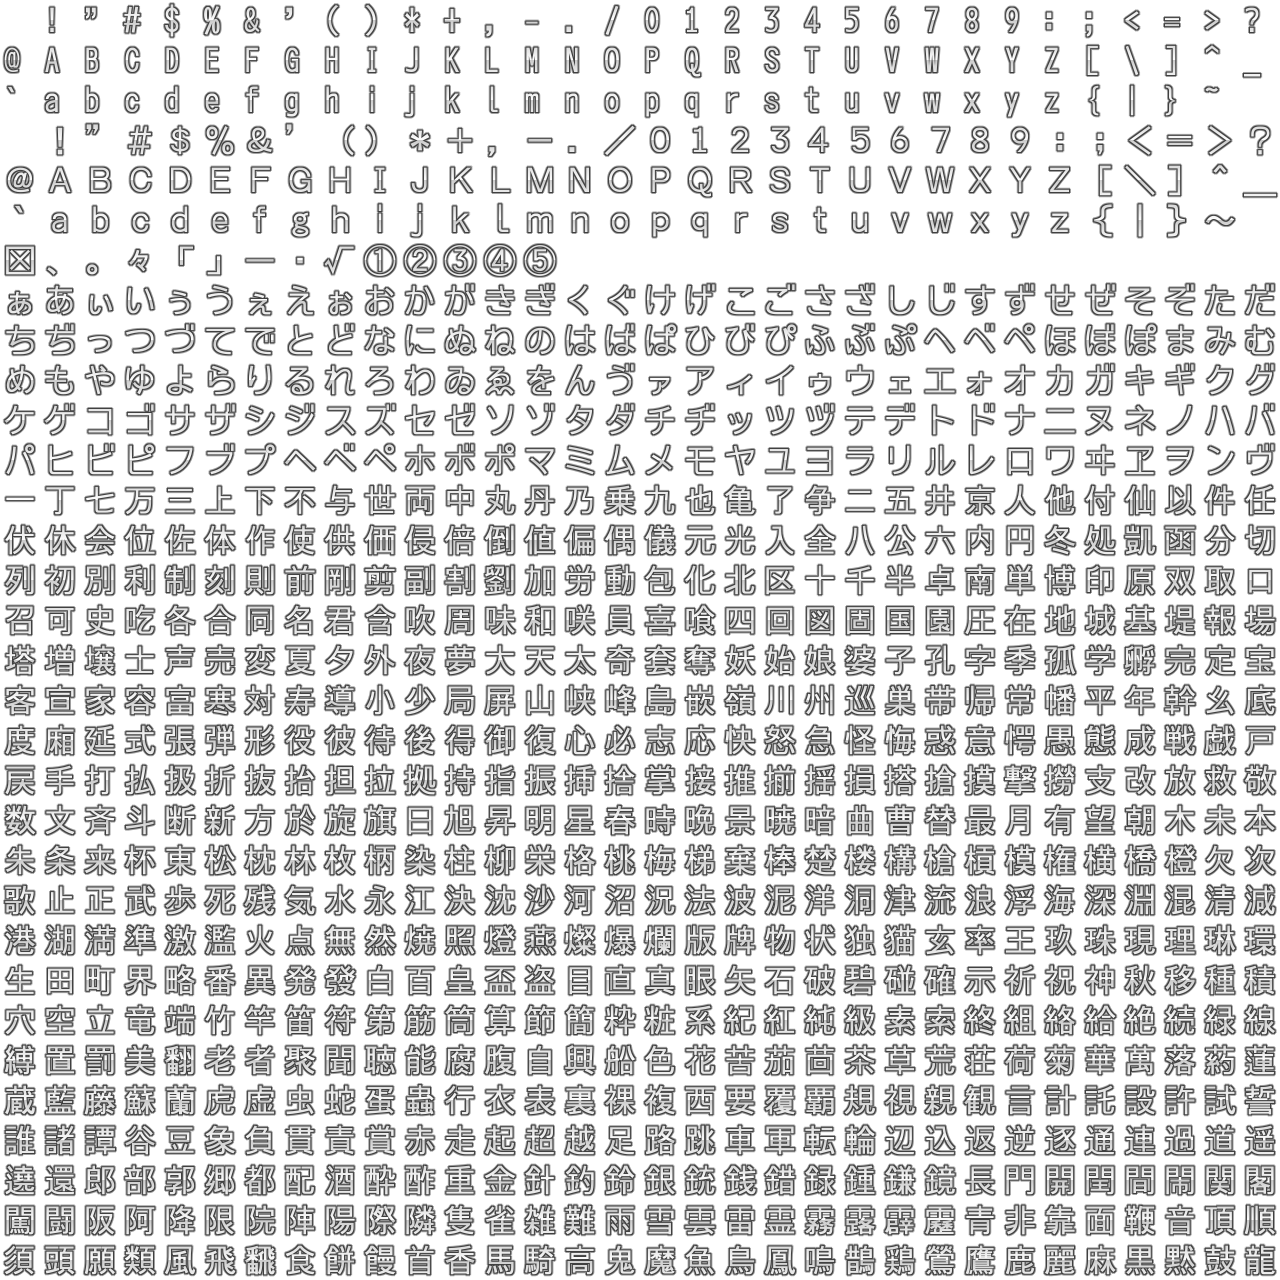
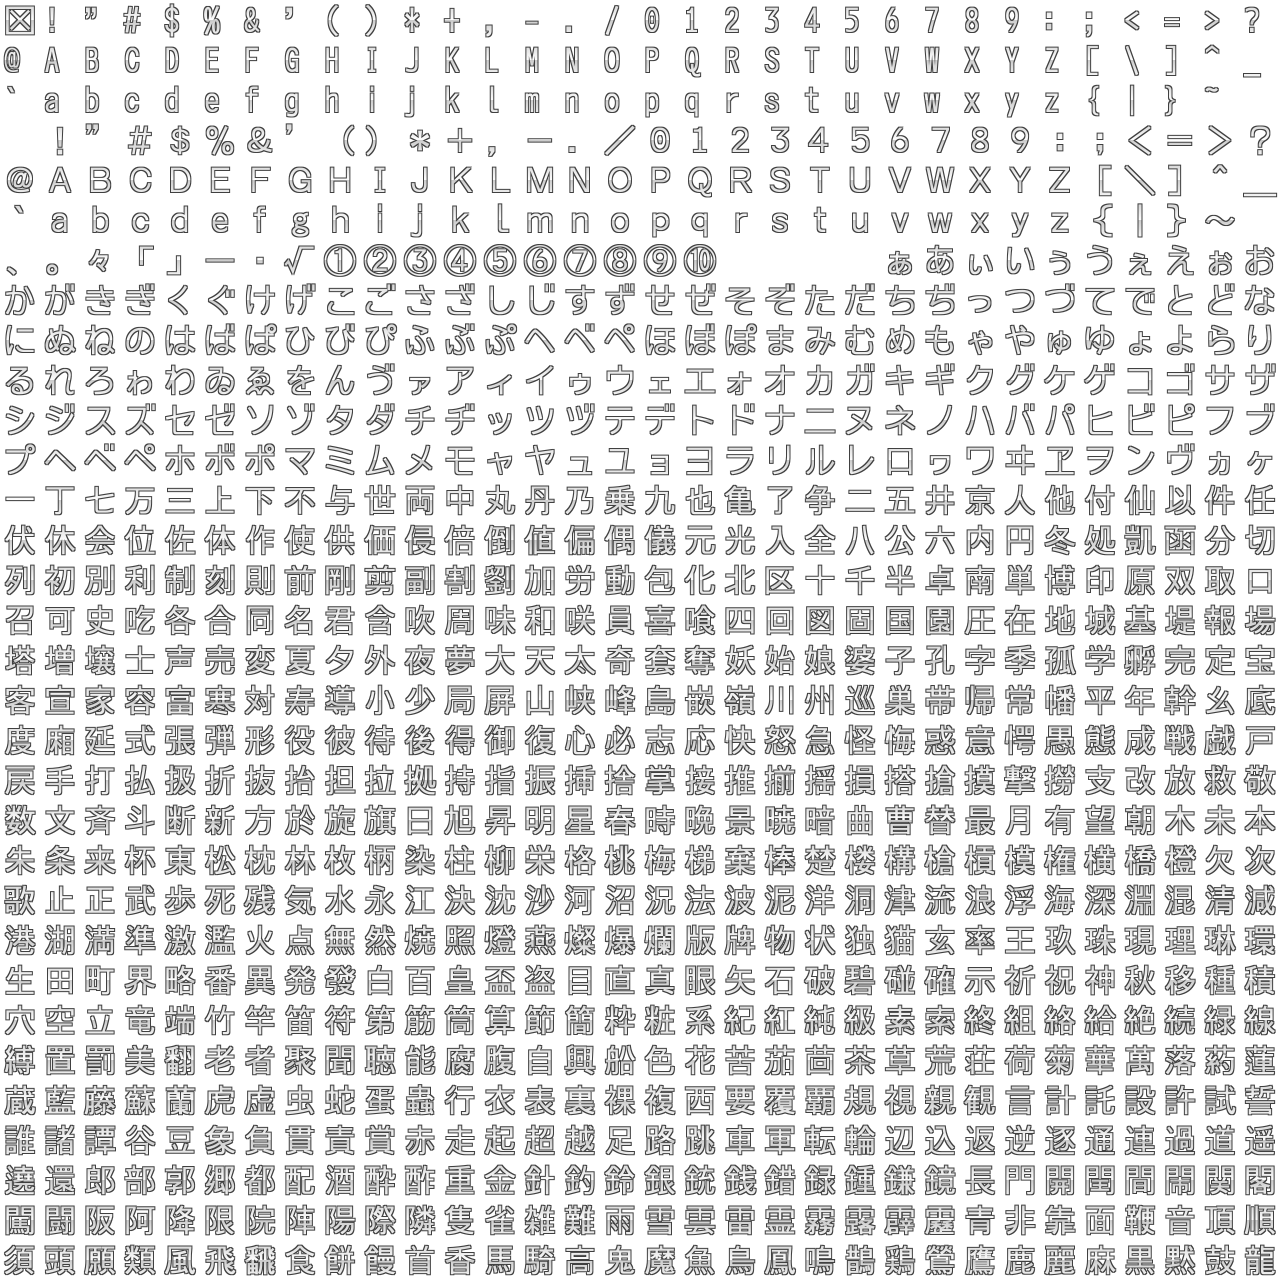
抜けていた仮名を追加

diff --git a/graphic/font.cpp b/graphic/font.cpp
@@ -11,7 +11,7 @@ unsigned short FontMap::map(wchar_t c) {
 }
 
 FontMap::FontMap() {
-	m.insert(fMapDat(L' ', 0));
+	m.insert(fMapDat(L' ', 96));
 	m.insert(fMapDat(L'!', 1));
 	m.insert(fMapDat(L'"', 2));
 	m.insert(fMapDat(L'#', 3));
@@ -201,179 +201,194 @@ FontMap::FontMap() {
 	m.insert(fMapDat(L'\uff5c', 188));
 	m.insert(fMapDat(L'\uff5d', 189));
 	m.insert(fMapDat(L'\uff5e', 190));
-	m.insert(fMapDat(L'\u3001', 193));
-	m.insert(fMapDat(L'\u3002', 194));
-	m.insert(fMapDat(L'\u3005', 195));
-	m.insert(fMapDat(L'\u300c', 196));
-	m.insert(fMapDat(L'\u300d', 197));
-	m.insert(fMapDat(L'\u30fc', 198));
-	m.insert(fMapDat(L'\u30fb', 199));
-	m.insert(fMapDat(L'\u221a', 200));
-	m.insert(fMapDat(L'\u2460', 201));
-	m.insert(fMapDat(L'\u2461', 202));
-	m.insert(fMapDat(L'\u2462', 203));
-	m.insert(fMapDat(L'\u2463', 204));
-	m.insert(fMapDat(L'\u2464', 205));
-	m.insert(fMapDat(L'\u3041', 224));
-	m.insert(fMapDat(L'\u3042', 225));
-	m.insert(fMapDat(L'\u3043', 226));
-	m.insert(fMapDat(L'\u3044', 227));
-	m.insert(fMapDat(L'\u3045', 228));
-	m.insert(fMapDat(L'\u3046', 229));
-	m.insert(fMapDat(L'\u3047', 230));
-	m.insert(fMapDat(L'\u3048', 231));
-	m.insert(fMapDat(L'\u3049', 232));
-	m.insert(fMapDat(L'\u304a', 233));
-	m.insert(fMapDat(L'\u304b', 234));
-	m.insert(fMapDat(L'\u304c', 235));
-	m.insert(fMapDat(L'\u304d', 236));
-	m.insert(fMapDat(L'\u304e', 237));
-	m.insert(fMapDat(L'\u304f', 238));
-	m.insert(fMapDat(L'\u3050', 239));
-	m.insert(fMapDat(L'\u3051', 240));
-	m.insert(fMapDat(L'\u3052', 241));
-	m.insert(fMapDat(L'\u3053', 242));
-	m.insert(fMapDat(L'\u3054', 243));
-	m.insert(fMapDat(L'\u3055', 244));
-	m.insert(fMapDat(L'\u3056', 245));
-	m.insert(fMapDat(L'\u3057', 246));
-	m.insert(fMapDat(L'\u3058', 247));
-	m.insert(fMapDat(L'\u3059', 248));
-	m.insert(fMapDat(L'\u305a', 249));
-	m.insert(fMapDat(L'\u305b', 250));
-	m.insert(fMapDat(L'\u305c', 251));
-	m.insert(fMapDat(L'\u305d', 252));
-	m.insert(fMapDat(L'\u305e', 253));
-	m.insert(fMapDat(L'\u305f', 254));
-	m.insert(fMapDat(L'\u3060', 255));
-	m.insert(fMapDat(L'\u3061', 256));
-	m.insert(fMapDat(L'\u3062', 257));
-	m.insert(fMapDat(L'\u3063', 258));
-	m.insert(fMapDat(L'\u3064', 259));
-	m.insert(fMapDat(L'\u3065', 260));
-	m.insert(fMapDat(L'\u3066', 261));
-	m.insert(fMapDat(L'\u3067', 262));
-	m.insert(fMapDat(L'\u3068', 263));
-	m.insert(fMapDat(L'\u3069', 264));
-	m.insert(fMapDat(L'\u306a', 265));
-	m.insert(fMapDat(L'\u306b', 266));
-	m.insert(fMapDat(L'\u306c', 267));
-	m.insert(fMapDat(L'\u306d', 268));
-	m.insert(fMapDat(L'\u306e', 269));
-	m.insert(fMapDat(L'\u306f', 270));
-	m.insert(fMapDat(L'\u3070', 271));
-	m.insert(fMapDat(L'\u3071', 272));
-	m.insert(fMapDat(L'\u3072', 273));
-	m.insert(fMapDat(L'\u3073', 274));
-	m.insert(fMapDat(L'\u3074', 275));
-	m.insert(fMapDat(L'\u3075', 276));
-	m.insert(fMapDat(L'\u3076', 277));
-	m.insert(fMapDat(L'\u3077', 278));
-	m.insert(fMapDat(L'\u3078', 279));
-	m.insert(fMapDat(L'\u3079', 280));
-	m.insert(fMapDat(L'\u307a', 281));
-	m.insert(fMapDat(L'\u307b', 282));
-	m.insert(fMapDat(L'\u307c', 283));
-	m.insert(fMapDat(L'\u307d', 284));
-	m.insert(fMapDat(L'\u307e', 285));
-	m.insert(fMapDat(L'\u307f', 286));
-	m.insert(fMapDat(L'\u3080', 287));
-	m.insert(fMapDat(L'\u3081', 288));
-	m.insert(fMapDat(L'\u3082', 289));
-	m.insert(fMapDat(L'\u3084', 290));
-	m.insert(fMapDat(L'\u3086', 291));
-	m.insert(fMapDat(L'\u3088', 292));
-	m.insert(fMapDat(L'\u3089', 293));
-	m.insert(fMapDat(L'\u308a', 294));
-	m.insert(fMapDat(L'\u308b', 295));
-	m.insert(fMapDat(L'\u308c', 296));
-	m.insert(fMapDat(L'\u308d', 297));
-	m.insert(fMapDat(L'\u308f', 298));
-	m.insert(fMapDat(L'\u3090', 299));
-	m.insert(fMapDat(L'\u3091', 300));
-	m.insert(fMapDat(L'\u3092', 301));
-	m.insert(fMapDat(L'\u3093', 302));
-	m.insert(fMapDat(L'\u3094', 303));
-	m.insert(fMapDat(L'\u30a1', 304));
-	m.insert(fMapDat(L'\u30a2', 305));
-	m.insert(fMapDat(L'\u30a3', 306));
-	m.insert(fMapDat(L'\u30a4', 307));
-	m.insert(fMapDat(L'\u30a5', 308));
-	m.insert(fMapDat(L'\u30a6', 309));
-	m.insert(fMapDat(L'\u30a7', 310));
-	m.insert(fMapDat(L'\u30a8', 311));
-	m.insert(fMapDat(L'\u30a9', 312));
-	m.insert(fMapDat(L'\u30aa', 313));
-	m.insert(fMapDat(L'\u30ab', 314));
-	m.insert(fMapDat(L'\u30ac', 315));
-	m.insert(fMapDat(L'\u30ad', 316));
-	m.insert(fMapDat(L'\u30ae', 317));
-	m.insert(fMapDat(L'\u30af', 318));
-	m.insert(fMapDat(L'\u30b0', 319));
-	m.insert(fMapDat(L'\u30b1', 320));
-	m.insert(fMapDat(L'\u30b2', 321));
-	m.insert(fMapDat(L'\u30b3', 322));
-	m.insert(fMapDat(L'\u30b4', 323));
-	m.insert(fMapDat(L'\u30b5', 324));
-	m.insert(fMapDat(L'\u30b6', 325));
-	m.insert(fMapDat(L'\u30b7', 326));
-	m.insert(fMapDat(L'\u30b8', 327));
-	m.insert(fMapDat(L'\u30b9', 328));
-	m.insert(fMapDat(L'\u30ba', 329));
-	m.insert(fMapDat(L'\u30bb', 330));
-	m.insert(fMapDat(L'\u30bc', 331));
-	m.insert(fMapDat(L'\u30bd', 332));
-	m.insert(fMapDat(L'\u30be', 333));
-	m.insert(fMapDat(L'\u30bf', 334));
-	m.insert(fMapDat(L'\u30c0', 335));
-	m.insert(fMapDat(L'\u30c1', 336));
-	m.insert(fMapDat(L'\u30c2', 337));
-	m.insert(fMapDat(L'\u30c3', 338));
-	m.insert(fMapDat(L'\u30c4', 339));
-	m.insert(fMapDat(L'\u30c5', 340));
-	m.insert(fMapDat(L'\u30c6', 341));
-	m.insert(fMapDat(L'\u30c7', 342));
-	m.insert(fMapDat(L'\u30c8', 343));
-	m.insert(fMapDat(L'\u30c9', 344));
-	m.insert(fMapDat(L'\u30ca', 345));
-	m.insert(fMapDat(L'\u30cb', 346));
-	m.insert(fMapDat(L'\u30cc', 347));
-	m.insert(fMapDat(L'\u30cd', 348));
-	m.insert(fMapDat(L'\u30ce', 349));
-	m.insert(fMapDat(L'\u30cf', 350));
-	m.insert(fMapDat(L'\u30d0', 351));
-	m.insert(fMapDat(L'\u30d1', 352));
-	m.insert(fMapDat(L'\u30d2', 353));
-	m.insert(fMapDat(L'\u30d3', 354));
-	m.insert(fMapDat(L'\u30d4', 355));
-	m.insert(fMapDat(L'\u30d5', 356));
-	m.insert(fMapDat(L'\u30d6', 357));
-	m.insert(fMapDat(L'\u30d7', 358));
-	m.insert(fMapDat(L'\u30d8', 359));
-	m.insert(fMapDat(L'\u30d9', 360));
-	m.insert(fMapDat(L'\u30da', 361));
-	m.insert(fMapDat(L'\u30db', 362));
-	m.insert(fMapDat(L'\u30dc', 363));
-	m.insert(fMapDat(L'\u30dd', 364));
-	m.insert(fMapDat(L'\u30de', 365));
-	m.insert(fMapDat(L'\u30df', 366));
-	m.insert(fMapDat(L'\u30e0', 367));
-	m.insert(fMapDat(L'\u30e1', 368));
-	m.insert(fMapDat(L'\u30e2', 369));
-	m.insert(fMapDat(L'\u30e4', 370));
-	m.insert(fMapDat(L'\u30e6', 371));
-	m.insert(fMapDat(L'\u30e8', 372));
-	m.insert(fMapDat(L'\u30e9', 373));
-	m.insert(fMapDat(L'\u30ea', 374));
-	m.insert(fMapDat(L'\u30eb', 375));
-	m.insert(fMapDat(L'\u30ec', 376));
-	m.insert(fMapDat(L'\u30ed', 377));
-	m.insert(fMapDat(L'\u30ef', 378));
-	m.insert(fMapDat(L'\u30f0', 379));
-	m.insert(fMapDat(L'\u30f1', 380));
-	m.insert(fMapDat(L'\u30f2', 381));
-	m.insert(fMapDat(L'\u30f3', 382));
-	m.insert(fMapDat(L'\u30f4', 383));
+	m.insert(fMapDat(L'\u3001', 192));
+	m.insert(fMapDat(L'\u3002', 193));
+	m.insert(fMapDat(L'\u3005', 194));
+	m.insert(fMapDat(L'\u300c', 195));
+	m.insert(fMapDat(L'\u300d', 196));
+	m.insert(fMapDat(L'\u30fc', 197));
+	m.insert(fMapDat(L'\u30fb', 198));
+	m.insert(fMapDat(L'\u221a', 199));
+	m.insert(fMapDat(L'\u2460', 200));
+	m.insert(fMapDat(L'\u2461', 201));
+	m.insert(fMapDat(L'\u2462', 202));
+	m.insert(fMapDat(L'\u2463', 203));
+	m.insert(fMapDat(L'\u2464', 204));
+	m.insert(fMapDat(L'\u2465', 205));
+	m.insert(fMapDat(L'\u2466', 206));
+	m.insert(fMapDat(L'\u2467', 207));
+	m.insert(fMapDat(L'\u2468', 208));
+	m.insert(fMapDat(L'\u2469', 209));
+	m.insert(fMapDat(L'\u3041', 214));
+	m.insert(fMapDat(L'\u3042', 215));
+	m.insert(fMapDat(L'\u3043', 216));
+	m.insert(fMapDat(L'\u3044', 217));
+	m.insert(fMapDat(L'\u3045', 218));
+	m.insert(fMapDat(L'\u3046', 219));
+	m.insert(fMapDat(L'\u3047', 220));
+	m.insert(fMapDat(L'\u3048', 221));
+	m.insert(fMapDat(L'\u3049', 222));
+	m.insert(fMapDat(L'\u304a', 223));
+	m.insert(fMapDat(L'\u304b', 224));
+	m.insert(fMapDat(L'\u304c', 225));
+	m.insert(fMapDat(L'\u304d', 226));
+	m.insert(fMapDat(L'\u304e', 227));
+	m.insert(fMapDat(L'\u304f', 228));
+	m.insert(fMapDat(L'\u3050', 229));
+	m.insert(fMapDat(L'\u3051', 230));
+	m.insert(fMapDat(L'\u3052', 231));
+	m.insert(fMapDat(L'\u3053', 232));
+	m.insert(fMapDat(L'\u3054', 233));
+	m.insert(fMapDat(L'\u3055', 234));
+	m.insert(fMapDat(L'\u3056', 235));
+	m.insert(fMapDat(L'\u3057', 236));
+	m.insert(fMapDat(L'\u3058', 237));
+	m.insert(fMapDat(L'\u3059', 238));
+	m.insert(fMapDat(L'\u305a', 239));
+	m.insert(fMapDat(L'\u305b', 240));
+	m.insert(fMapDat(L'\u305c', 241));
+	m.insert(fMapDat(L'\u305d', 242));
+	m.insert(fMapDat(L'\u305e', 243));
+	m.insert(fMapDat(L'\u305f', 244));
+	m.insert(fMapDat(L'\u3060', 245));
+	m.insert(fMapDat(L'\u3061', 246));
+	m.insert(fMapDat(L'\u3062', 247));
+	m.insert(fMapDat(L'\u3063', 248));
+	m.insert(fMapDat(L'\u3064', 249));
+	m.insert(fMapDat(L'\u3065', 250));
+	m.insert(fMapDat(L'\u3066', 251));
+	m.insert(fMapDat(L'\u3067', 252));
+	m.insert(fMapDat(L'\u3068', 253));
+	m.insert(fMapDat(L'\u3069', 254));
+	m.insert(fMapDat(L'\u306a', 255));
+	m.insert(fMapDat(L'\u306b', 256));
+	m.insert(fMapDat(L'\u306c', 257));
+	m.insert(fMapDat(L'\u306d', 258));
+	m.insert(fMapDat(L'\u306e', 259));
+	m.insert(fMapDat(L'\u306f', 260));
+	m.insert(fMapDat(L'\u3070', 261));
+	m.insert(fMapDat(L'\u3071', 262));
+	m.insert(fMapDat(L'\u3072', 263));
+	m.insert(fMapDat(L'\u3073', 264));
+	m.insert(fMapDat(L'\u3074', 265));
+	m.insert(fMapDat(L'\u3075', 266));
+	m.insert(fMapDat(L'\u3076', 267));
+	m.insert(fMapDat(L'\u3077', 268));
+	m.insert(fMapDat(L'\u3078', 269));
+	m.insert(fMapDat(L'\u3079', 270));
+	m.insert(fMapDat(L'\u307a', 271));
+	m.insert(fMapDat(L'\u307b', 272));
+	m.insert(fMapDat(L'\u307c', 273));
+	m.insert(fMapDat(L'\u307d', 274));
+	m.insert(fMapDat(L'\u307e', 275));
+	m.insert(fMapDat(L'\u307f', 276));
+	m.insert(fMapDat(L'\u3080', 277));
+	m.insert(fMapDat(L'\u3081', 278));
+	m.insert(fMapDat(L'\u3082', 279));
+	m.insert(fMapDat(L'\u3083', 280));
+	m.insert(fMapDat(L'\u3084', 281));
+	m.insert(fMapDat(L'\u3085', 282));
+	m.insert(fMapDat(L'\u3086', 283));
+	m.insert(fMapDat(L'\u3087', 284));
+	m.insert(fMapDat(L'\u3088', 285));
+	m.insert(fMapDat(L'\u3089', 286));
+	m.insert(fMapDat(L'\u308a', 287));
+	m.insert(fMapDat(L'\u308b', 288));
+	m.insert(fMapDat(L'\u308c', 289));
+	m.insert(fMapDat(L'\u308d', 290));
+	m.insert(fMapDat(L'\u308e', 291));
+	m.insert(fMapDat(L'\u308f', 292));
+	m.insert(fMapDat(L'\u3090', 293));
+	m.insert(fMapDat(L'\u3091', 294));
+	m.insert(fMapDat(L'\u3092', 295));
+	m.insert(fMapDat(L'\u3093', 296));
+	m.insert(fMapDat(L'\u3094', 297));
+	m.insert(fMapDat(L'\u30a1', 298));
+	m.insert(fMapDat(L'\u30a2', 299));
+	m.insert(fMapDat(L'\u30a3', 300));
+	m.insert(fMapDat(L'\u30a4', 301));
+	m.insert(fMapDat(L'\u30a5', 302));
+	m.insert(fMapDat(L'\u30a6', 303));
+	m.insert(fMapDat(L'\u30a7', 304));
+	m.insert(fMapDat(L'\u30a8', 305));
+	m.insert(fMapDat(L'\u30a9', 306));
+	m.insert(fMapDat(L'\u30aa', 307));
+	m.insert(fMapDat(L'\u30ab', 308));
+	m.insert(fMapDat(L'\u30ac', 309));
+	m.insert(fMapDat(L'\u30ad', 310));
+	m.insert(fMapDat(L'\u30ae', 311));
+	m.insert(fMapDat(L'\u30af', 312));
+	m.insert(fMapDat(L'\u30b0', 313));
+	m.insert(fMapDat(L'\u30b1', 314));
+	m.insert(fMapDat(L'\u30b2', 315));
+	m.insert(fMapDat(L'\u30b3', 316));
+	m.insert(fMapDat(L'\u30b4', 317));
+	m.insert(fMapDat(L'\u30b5', 318));
+	m.insert(fMapDat(L'\u30b6', 319));
+	m.insert(fMapDat(L'\u30b7', 320));
+	m.insert(fMapDat(L'\u30b8', 321));
+	m.insert(fMapDat(L'\u30b9', 322));
+	m.insert(fMapDat(L'\u30ba', 323));
+	m.insert(fMapDat(L'\u30bb', 324));
+	m.insert(fMapDat(L'\u30bc', 325));
+	m.insert(fMapDat(L'\u30bd', 326));
+	m.insert(fMapDat(L'\u30be', 327));
+	m.insert(fMapDat(L'\u30bf', 328));
+	m.insert(fMapDat(L'\u30c0', 329));
+	m.insert(fMapDat(L'\u30c1', 330));
+	m.insert(fMapDat(L'\u30c2', 331));
+	m.insert(fMapDat(L'\u30c3', 332));
+	m.insert(fMapDat(L'\u30c4', 333));
+	m.insert(fMapDat(L'\u30c5', 334));
+	m.insert(fMapDat(L'\u30c6', 335));
+	m.insert(fMapDat(L'\u30c7', 336));
+	m.insert(fMapDat(L'\u30c8', 337));
+	m.insert(fMapDat(L'\u30c9', 338));
+	m.insert(fMapDat(L'\u30ca', 339));
+	m.insert(fMapDat(L'\u30cb', 340));
+	m.insert(fMapDat(L'\u30cc', 341));
+	m.insert(fMapDat(L'\u30cd', 342));
+	m.insert(fMapDat(L'\u30ce', 343));
+	m.insert(fMapDat(L'\u30cf', 344));
+	m.insert(fMapDat(L'\u30d0', 345));
+	m.insert(fMapDat(L'\u30d1', 346));
+	m.insert(fMapDat(L'\u30d2', 347));
+	m.insert(fMapDat(L'\u30d3', 348));
+	m.insert(fMapDat(L'\u30d4', 349));
+	m.insert(fMapDat(L'\u30d5', 350));
+	m.insert(fMapDat(L'\u30d6', 351));
+	m.insert(fMapDat(L'\u30d7', 352));
+	m.insert(fMapDat(L'\u30d8', 353));
+	m.insert(fMapDat(L'\u30d9', 354));
+	m.insert(fMapDat(L'\u30da', 355));
+	m.insert(fMapDat(L'\u30db', 356));
+	m.insert(fMapDat(L'\u30dc', 357));
+	m.insert(fMapDat(L'\u30dd', 358));
+	m.insert(fMapDat(L'\u30de', 359));
+	m.insert(fMapDat(L'\u30df', 360));
+	m.insert(fMapDat(L'\u30e0', 361));
+	m.insert(fMapDat(L'\u30e1', 362));
+	m.insert(fMapDat(L'\u30e2', 363));
+	m.insert(fMapDat(L'\u30e3', 364));
+	m.insert(fMapDat(L'\u30e4', 365));
+	m.insert(fMapDat(L'\u30e5', 366));
+	m.insert(fMapDat(L'\u30e6', 367));
+	m.insert(fMapDat(L'\u30e7', 368));
+	m.insert(fMapDat(L'\u30e8', 369));
+	m.insert(fMapDat(L'\u30e9', 370));
+	m.insert(fMapDat(L'\u30ea', 371));
+	m.insert(fMapDat(L'\u30eb', 372));
+	m.insert(fMapDat(L'\u30ec', 373));
+	m.insert(fMapDat(L'\u30ed', 374));
+	m.insert(fMapDat(L'\u30ee', 375));
+	m.insert(fMapDat(L'\u30ef', 376));
+	m.insert(fMapDat(L'\u30f0', 377));
+	m.insert(fMapDat(L'\u30f1', 378));
+	m.insert(fMapDat(L'\u30f2', 379));
+	m.insert(fMapDat(L'\u30f3', 380));
+	m.insert(fMapDat(L'\u30f4', 381));
+	m.insert(fMapDat(L'\u30f5', 382));
+	m.insert(fMapDat(L'\u30f6', 383));
 	m.insert(fMapDat(L'\u4e00', 384));
 	m.insert(fMapDat(L'\u4e01', 385));
 	m.insert(fMapDat(L'\u4e03', 386));

diff --git a/graphic/font.h b/graphic/font.h
@@ -12,7 +12,7 @@ private:
 	virtual ~FontMap() {}
 	FontMap& operator=(const FontMap&) {return *this;}
 	fMap m;
-	static const unsigned short Default_Chr = 192;
+	static const unsigned short Default_Chr = 0;
 public:
 	static FontMap* instantiate();
 	unsigned short map(wchar_t c);
